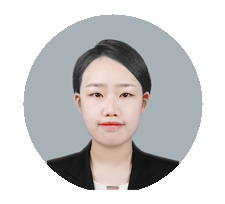
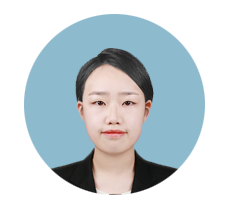
resume update

diff --git a/index.html b/index.html
@@ -32,36 +32,18 @@
 
 <body>
     <!-- ******HEADER****** --> 
-    <header class="header">
-        <div class="container clearfix">                       
-            <img class="profile-image img-fluid float-left rounded-circle" src="assets/images/kang.png" alt="profile image" />
-            <div class="profile-content float-left">
-                <h1 class="name">강혜란</h1>
-                <h2 class="desc">Web App Developer</h2>   
-                <ul  class="social list-inline">
-                    <li class="lichild" class="list-inline-item"><a href="#"><i class="fab fa-twitter"></i></a></li>
-                    <li class="lichild" class="list-inline-item"><a href="#"><i class="fab fa-linkedin-in"></i></a></li>
-                    <li class="lichild" class="list-inline-item"><a href="#"><i class="fab fa-github-alt"></i></a></li>    
-                    <li class="lichild" class="list-inline-item"><a href="#"><i class="fab fa-stack-overflow"></i></a></li>   
-                    <li class="lichild" class="list-inline-item last-item"><a href="#"><i class="fab fa-codepen"></i></a></li>                
-                </ul> 
-            </div><!--//profile-->
-            <a class="btn btn-cta-primary float-right" href="https://themes.3rdwavemedia.com/" target="_blank"><i class="fas fa-paper-plane"></i> Contact Me</a>              
-        </div><!--//container-->
-    </header><!--//header-->
-    
      <header class="header">
         <div class="container clearfix">                       
             <img class="profile-image img-fluid float-left rounded-circle" src="assets/images/hye.png" alt="profile image" />
             <div class="profile-content float-left">
                 <h1 class="name">강혜란</h1>
-                <h2 class="desc">Web App Developer</h2>   
+                <h2 class="desc">백엔드 개발자</h2>   
                 <ul  class="social list-inline">
-                    <li class="lichild" class="list-inline-item"><a href="#"><i class="fab fa-twitter"></i></a></li>
-                    <li class="lichild" class="list-inline-item"><a href="#"><i class="fab fa-linkedin-in"></i></a></li>
-                    <li class="lichild" class="list-inline-item"><a href="#"><i class="fab fa-github-alt"></i></a></li>    
-                    <li class="lichild" class="list-inline-item"><a href="#"><i class="fab fa-stack-overflow"></i></a></li>   
-                    <li class="lichild" class="list-inline-item last-item"><a href="#"><i class="fab fa-codepen"></i></a></li>                
+                    <!--  <li class="list-inline-item"><a href="#"><i class="fab fa-twitter"></i></a></li> -->
+                    <!-- <li class="list-inline-item"><a href="#"><i class="fab fa-linkedin-in"></i></a></li> -->
+                    <!-- <li class="list-inline-item"><a href="#"><i class="fab fa-github-alt"></i></a></li> -->
+                    <!-- <li class="list-inline-item"><a href="#"><i class="fab fa-stack-overflow"></i></a></li> -->   
+                    <!-- <li class="list-inline-item last-item"><a href="#"><i class="fab fa-codepen"></i></a></li> -->               
                 </ul> 
             </div><!--//profile-->
             <a class="btn btn-cta-primary float-right" href="https://themes.3rdwavemedia.com/" target="_blank"><i class="fas fa-paper-plane"></i> Contact Me</a>              
@@ -71,19 +53,9 @@
     <div class="container sections-wrapper">
         <div class="row">
             <div class="primary col-lg-8 col-12">
-                <section class="about section">
-                    <div class="section-inner shadow-sm rounded">
-                        <h2 class="heading">About Me</h2>
-                        <div class="content">
-                            <p>Write a brief intro about yourself. It's a good idea to include your personal interests and hobbies as well. Lorem ipsum dolor sit amet, consectetuer adipiscing elit. Aenean commodo ligula eget dolor. Aenean massa. Cum sociis natoque penatibus et magnis dis parturient montes, nascetur ridiculus mus. Donec quam felis, ultricies nec. Commodo ligula eget dolor. Aenean massa.</p>
-                         
-                        </div><!--//content-->
-                    </div><!--//section-inner-->                 
-                </section><!--//section-->
-    
                <section class="latest section">
                     <div class="section-inner shadow-sm rounded">
-                        <h2 class="heading">Latest Projects</h2>
+                        <h2 class="heading">최근 프로젝트</h2>
                         <div class="content">    
                                                
                             <div class="item featured text-center">
@@ -97,22 +69,99 @@
                                     </div>
                                 </div>
                                 
-                                <h3 class="title mb-3"><a href="https://themes.3rdwavemedia.com/bootstrap-templates/startup/launch-bootstrap-4-template-for-saas-businesses/" target="_blank">Launch - The perfect Bootstrap template for SaaS products</a></h3>
+                                <h3 class="title mb-3"><a href="#" target="_blank">배추마켓(회원간 경매거래 서비스) with.team GOODEE5</a></h3>
                                     
                                 <div class="desc text-left">                                    
-                                    <p>You can promote your main project here. Suspendisse in tellus dolor. Vivamus a tortor eu turpis pharetra consequat quis non metus. Aliquam aliquam, orci eu suscipit pellentesque, mauris dui tincidunt enim, eget iaculis ante dolor non turpis. Ut enim ad minima veniam, quis nostrum exercitationem ullam corporis suscipit laboriosam.</p>
+                                    <table class="table">
+                                    	<tr>
+	                                    	<th>프로젝트 방식</th>
+	                                    	<td>Model 2(MVC패턴)</td>
+                                    	</tr>
+                                    	
+                                    	<tr>
+	                                    	<th>사용 프로그램</th>
+	                                    	<td></td>
+                                    	</tr>
+                                    	
+                                    	<tr>
+	                                    	<th>언어</th>
+	                                    	<td>JAVA, HTML, SQL</td>
+                                    	</tr>
+                                    	
+                                    	<tr>
+	                                    	<th>작업 기간</th>
+	                                    	<td>2020.05.26~2020.06.26</td>
+                                    	</tr>
+                                    	
+                                    	<tr>
+	                                    	<th>프로젝트 설명</th>
+	                                    	<td> </td>
+                                    	</tr>
+                                    	
+                                    	<tr>
+	                                    	<th>링크</th>
+	                                    	<td> 
+	                                    		
+	                                    	</td>
+                                    	</tr>
+                                    </table>
                                 </div><!--//desc-->         
-                                <a class="btn btn-cta-secondary" href="https://themes.3rdwavemedia.com/bootstrap-templates/startup/launch-bootstrap-4-template-for-saas-businesses/" target="_blank"><i class="fas fa-thumbs-up"></i> Back my project</a>                 
+                                <a class="btn btn-cta-secondary" href="#beachu#" target="_blank"><i class="fas fa-thumbs-up"></i>좋아요</a>
+                                <a class="btn btn-cta" href="#">물리 ERD</a>
+	                            <a class="btn btn-cta" href="#">요구정의서 및 명세서</a>
+	                            <a class="btn btn-cta-info" href="#">Project</a>
+	                            <a class="btn btn-cta" href="#">테스트 문서</a>
+	                            <a class="btn btn-cta" href="#">깃허브</a>                 
                             </div><!--//item-->
                             <hr class="divider" />
                             <div class="item row">
-                                <a class="col-md-4 col-12" href="https://themes.3rdwavemedia.com/bootstrap-templates/startup/coderpro-bootstrap-4-startup-template-for-software-projects/" target="_blank">
-                                <img class="img-fluid project-image rounded shadow-sm" src="assets/images/projects/project-1.png" alt="project name" />
+                                <a class="col-md-4 col-12" href="#beachu#" target="_blank">
+                                <img class="img-fluid project-image rounded shadow-sm" src="assets/images/projects/project-1.png" alt="DVD대여점_admin" />
                                 </a>
                                 <div class="desc col-md-8 col-12">
-                                    <h3 class="title"><a href="https://themes.3rdwavemedia.com/bootstrap-templates/startup/coderpro-bootstrap-4-startup-template-for-software-projects/" target="_blank">CoderPro - Boootstrap Startup Template For Software Projects</a></h3>
-                                    <p class="mb-2">You can put one of your secondary projects here. Suspendisse in tellus dolor. Vivamus a tortor eu turpis pharetra consequat quis non metus. Aliquam aliquam, orci eu suscipit pellentesque, mauris dui tincidunt enim, eget iaculis ante dolor non turpis.</p>
-                                    <p><a class="more-link" href="https://themes.3rdwavemedia.com/bootstrap-templates/startup/coderpro-bootstrap-4-startup-template-for-software-projects/" target="_blank"><i class="fas fa-external-link-alt"></i>Find out more</a></p>
+                                    <h3 class="title"><a href="#beachu#" target="_blank">SAKILA DVD 대여점</a></h3>
+                                    <p class="mb-2">
+                                    <table class="table">
+                                    	<tr>
+	                                    	<th>프로젝트 방식</th>
+	                                    	<td>Model 2(MVC패턴)</td>
+                                    	</tr>
+                                    	
+                                    	<tr>
+	                                    	<th>사용 프로그램</th>
+	                                    	<td></td>
+                                    	</tr>
+                                    	
+                                    	<tr>
+	                                    	<th>언어</th>
+	                                    	<td>JAVA, HTML, SQL</td>
+                                    	</tr>
+                                    	
+                                    	<tr>
+	                                    	<th>작업 기간</th>
+	                                    	<td>2020.05.26~2020.06.26</td>
+                                    	</tr>
+                                    	
+                                    	<tr>
+	                                    	<th>프로젝트 설명</th>
+	                                    	<td>staff계정을 이용해 로그인하여, 대여 및 반납 그리고 매출을 그래프로 확인할수 있습니다. <br>
+	                                    	영화, 영화배우, 비디오재고, 직원, 회원 의 CRUD를 구현하였습니다.
+	                                    	</td>
+                                    	</tr>
+                                    	
+                                    	<tr>
+	                                    	<th>링크</th>
+	                                    	<td> 
+	                                    		<a class="button info" href="#">물리 ERD</a>
+	                                    		<a class="button info" href="https://docs.google.com/document/d/1tD6WkR5b5_JZkQvX7yQRLiI1MaL7sp_DowyFrL5GVIA/edit?usp=sharing">요구정의서 및 명세서</a>
+	                                    		<a class="button info" href="#">Project</a>
+	                                    		<a class="button info" href="https://docs.google.com/spreadsheets/d/1O8CnOJJACzcd-JRmccDi_2a16DxRtYkeKHCTChgXdqM/edit?usp=sharing">테스트 문서</a>
+	                                    		<a class="button info" href="https://github.com/hyeran930331/sakila">깃허브</a>
+	                                    	</td>
+                                    	</tr>
+                                    </table>
+                                    </p>
+                                    <p><a class="more-link" href="#sakila#" target="_blank"><i class="fas fa-external-link-alt"></i>프로젝트</a></p>
                                 </div><!--//desc-->                          
                             </div><!--//item-->
                             
@@ -183,7 +232,7 @@
                                 <p><a class="more-link" href="https://themes.3rdwavemedia.com/bootstrap-templates/startup/nova-bootstrap-landing-page-template-for-mobile-apps/" target="_blank"><i class="fas fa-external-link-alt"></i>Download Now</a></p>
                             </div><!--//item-->
                             
-                            <a class="btn btn-cta-secondary" href="#">More on GitHub <i class="fas fa-chevron-right pt-1"></i></a>
+                            <a class="btn btn-cta-secondary" href="https://github.com/hyeran930331">More on GitHub <i class="fas fa-chevron-right pt-1"></i></a>
                             
                         </div><!--//content-->  
                     </div><!--//section-inner-->                 
